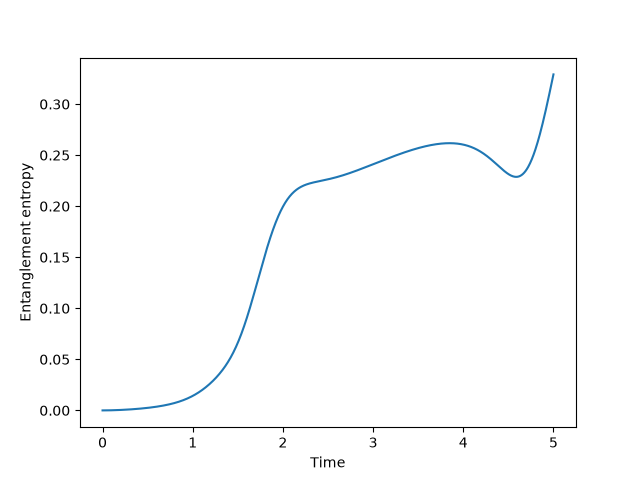
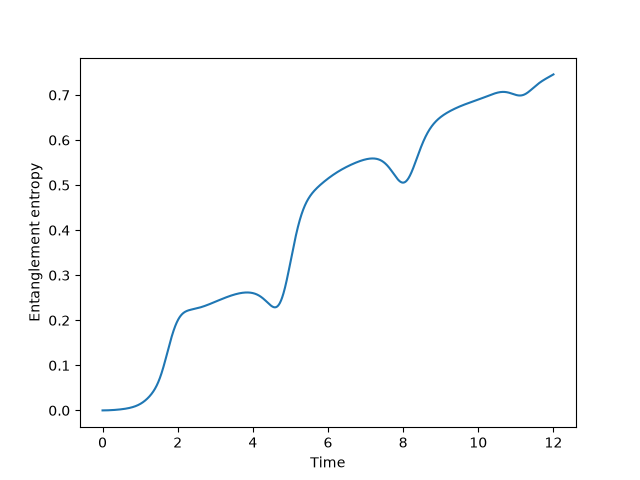
make t=12 consistent and save classical plots

diff --git a/classical_comparison.py b/classical_comparison.py
@@ -28,7 +28,7 @@ g = 1.0     # interaction strength (k is taken by the momentum grid)
 a = 0.5     # softening length
  
 dt = 0.005
-total_time = 11.5 # changed total time from 5 to 11.5
+total_time = 12.0
 num_steps = int(total_time / dt)
 
 #copy of simulation from phase 3
@@ -123,4 +123,4 @@ plt.title("Quantum vs Classical Two Particle Trajectories")
 plt.grid()
 plt.legend()
 plt.savefig("plots/classical_vs_quantum_trajectories.png")
-plt.close
+plt.close()

diff --git a/phase3_interacting.py b/phase3_interacting.py
@@ -30,7 +30,7 @@ g = 1.0     # interaction strength (k is taken by the momentum grid)
 a = 0.5     # softening length
  
 dt = 0.005
-total_time = 5.0
+total_time = 12.0
 num_steps = int(total_time / dt)
  
 # endpoint=False so the domain matches the period the FFT assumes
